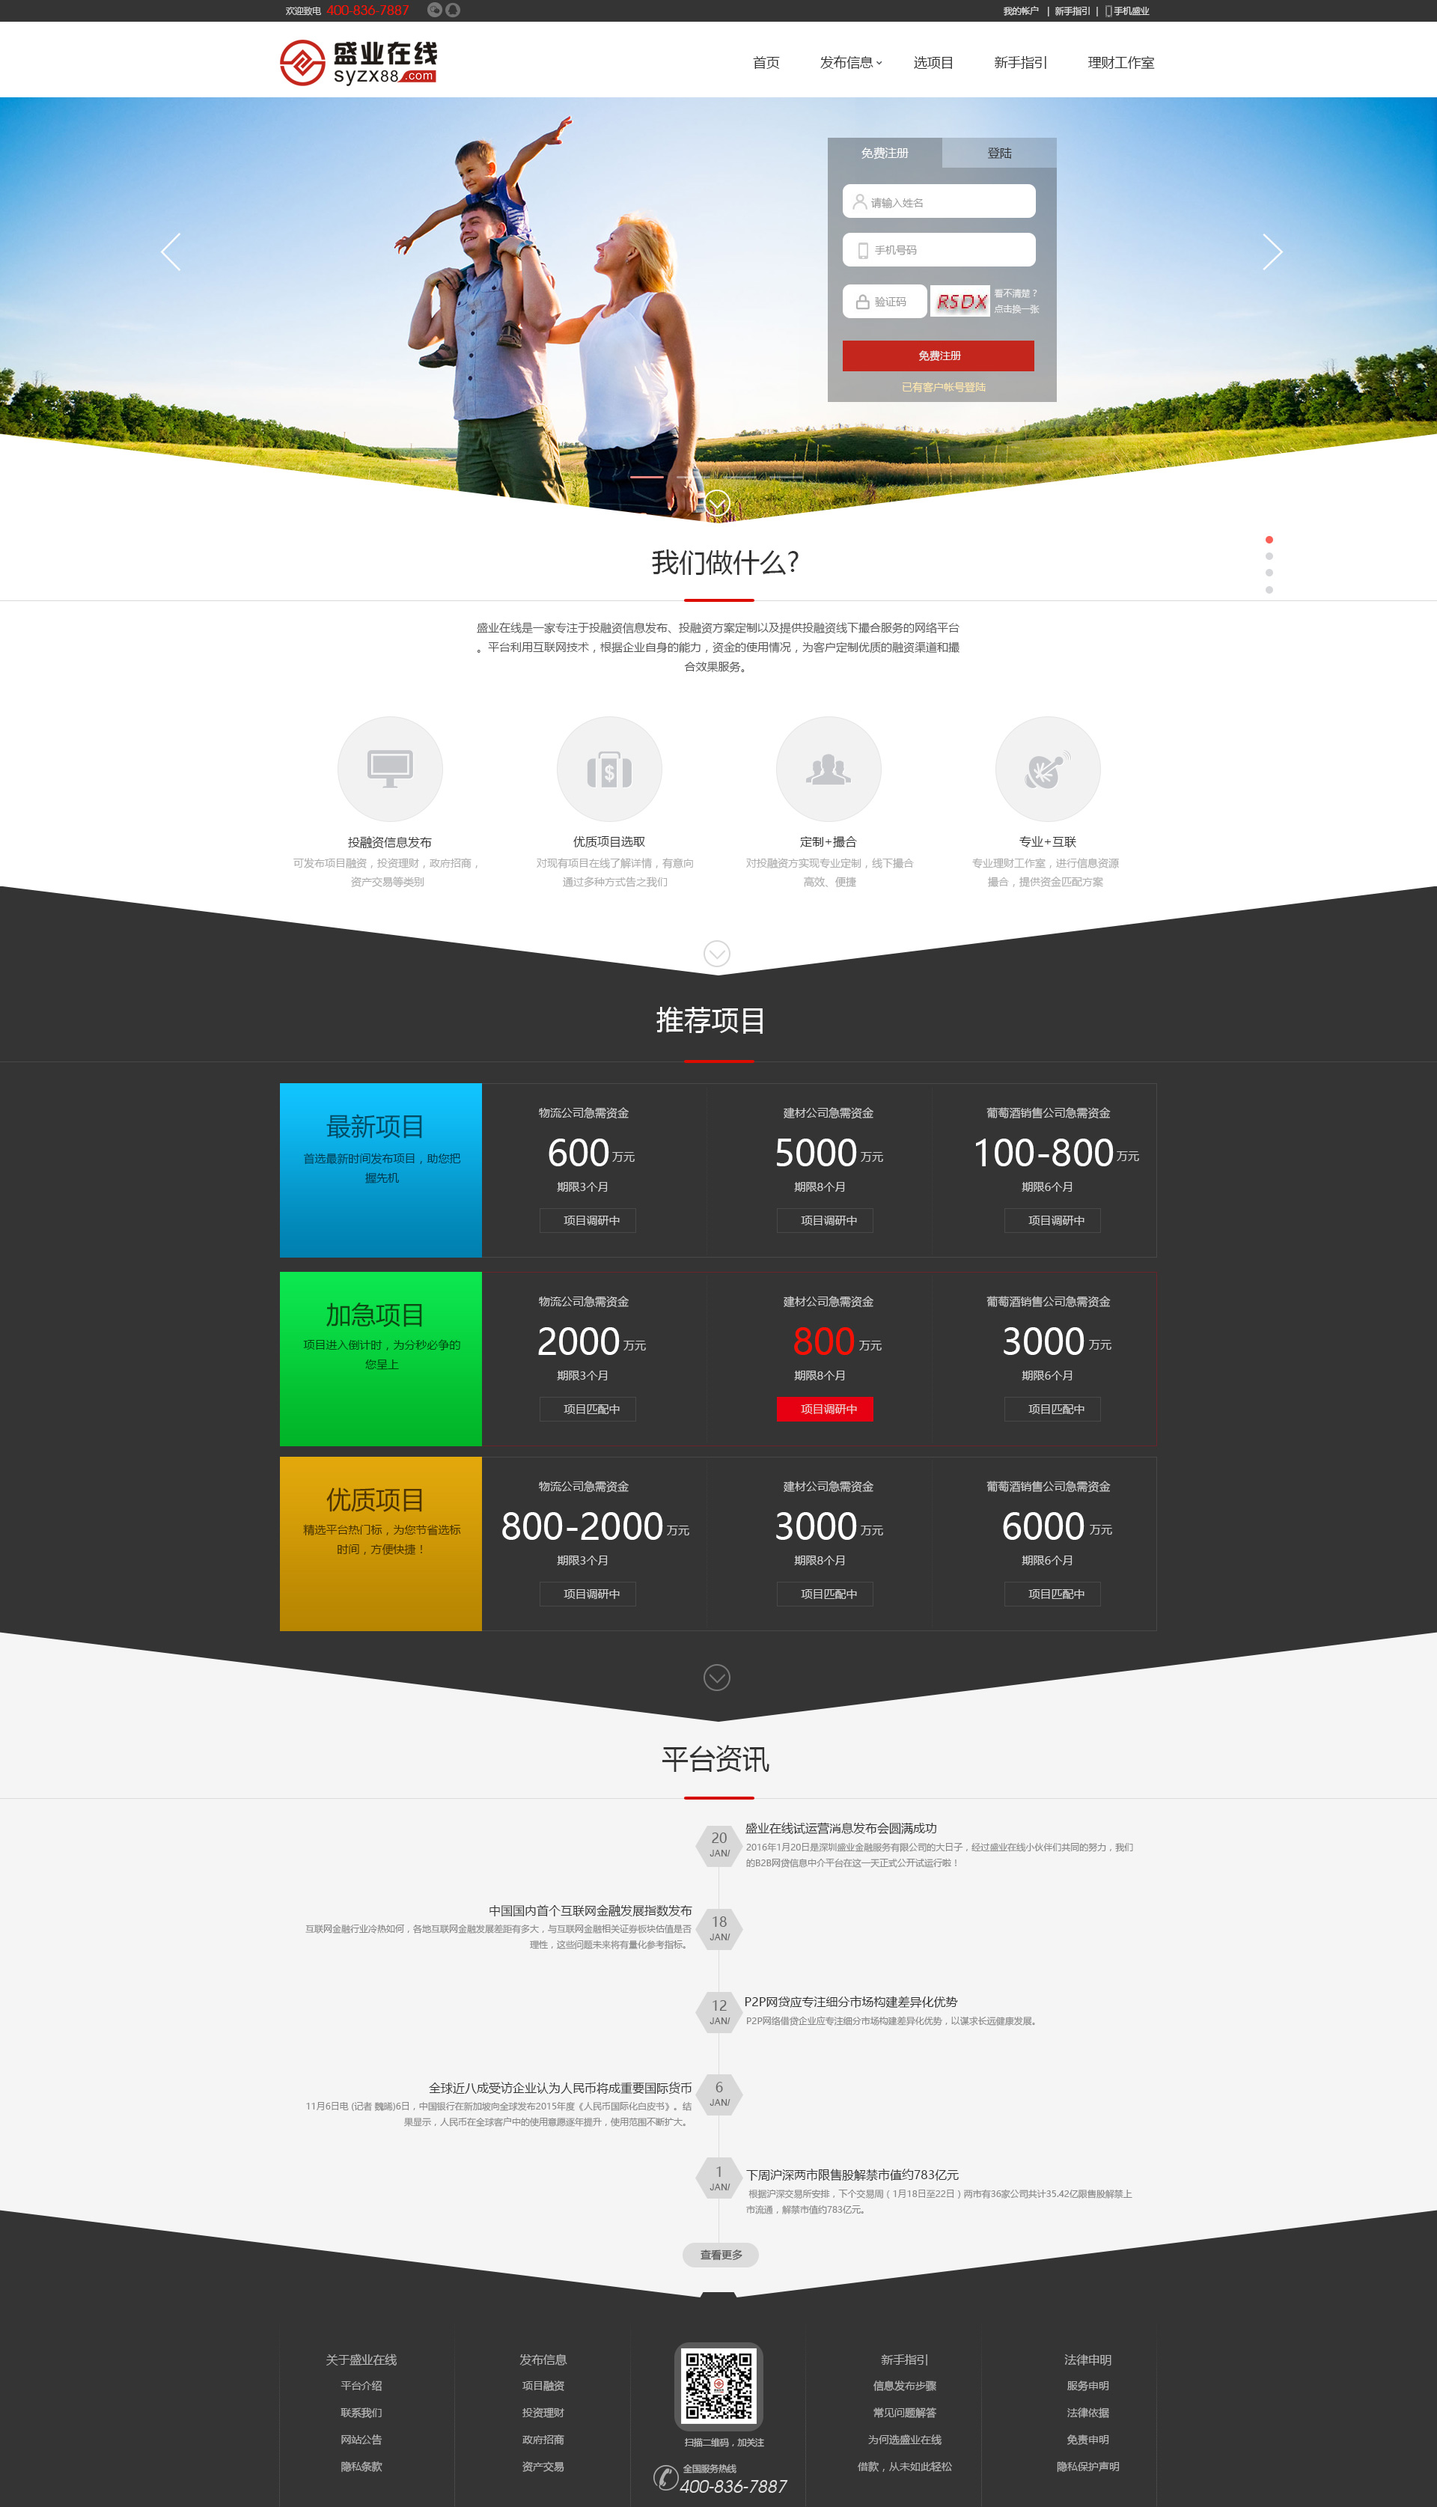
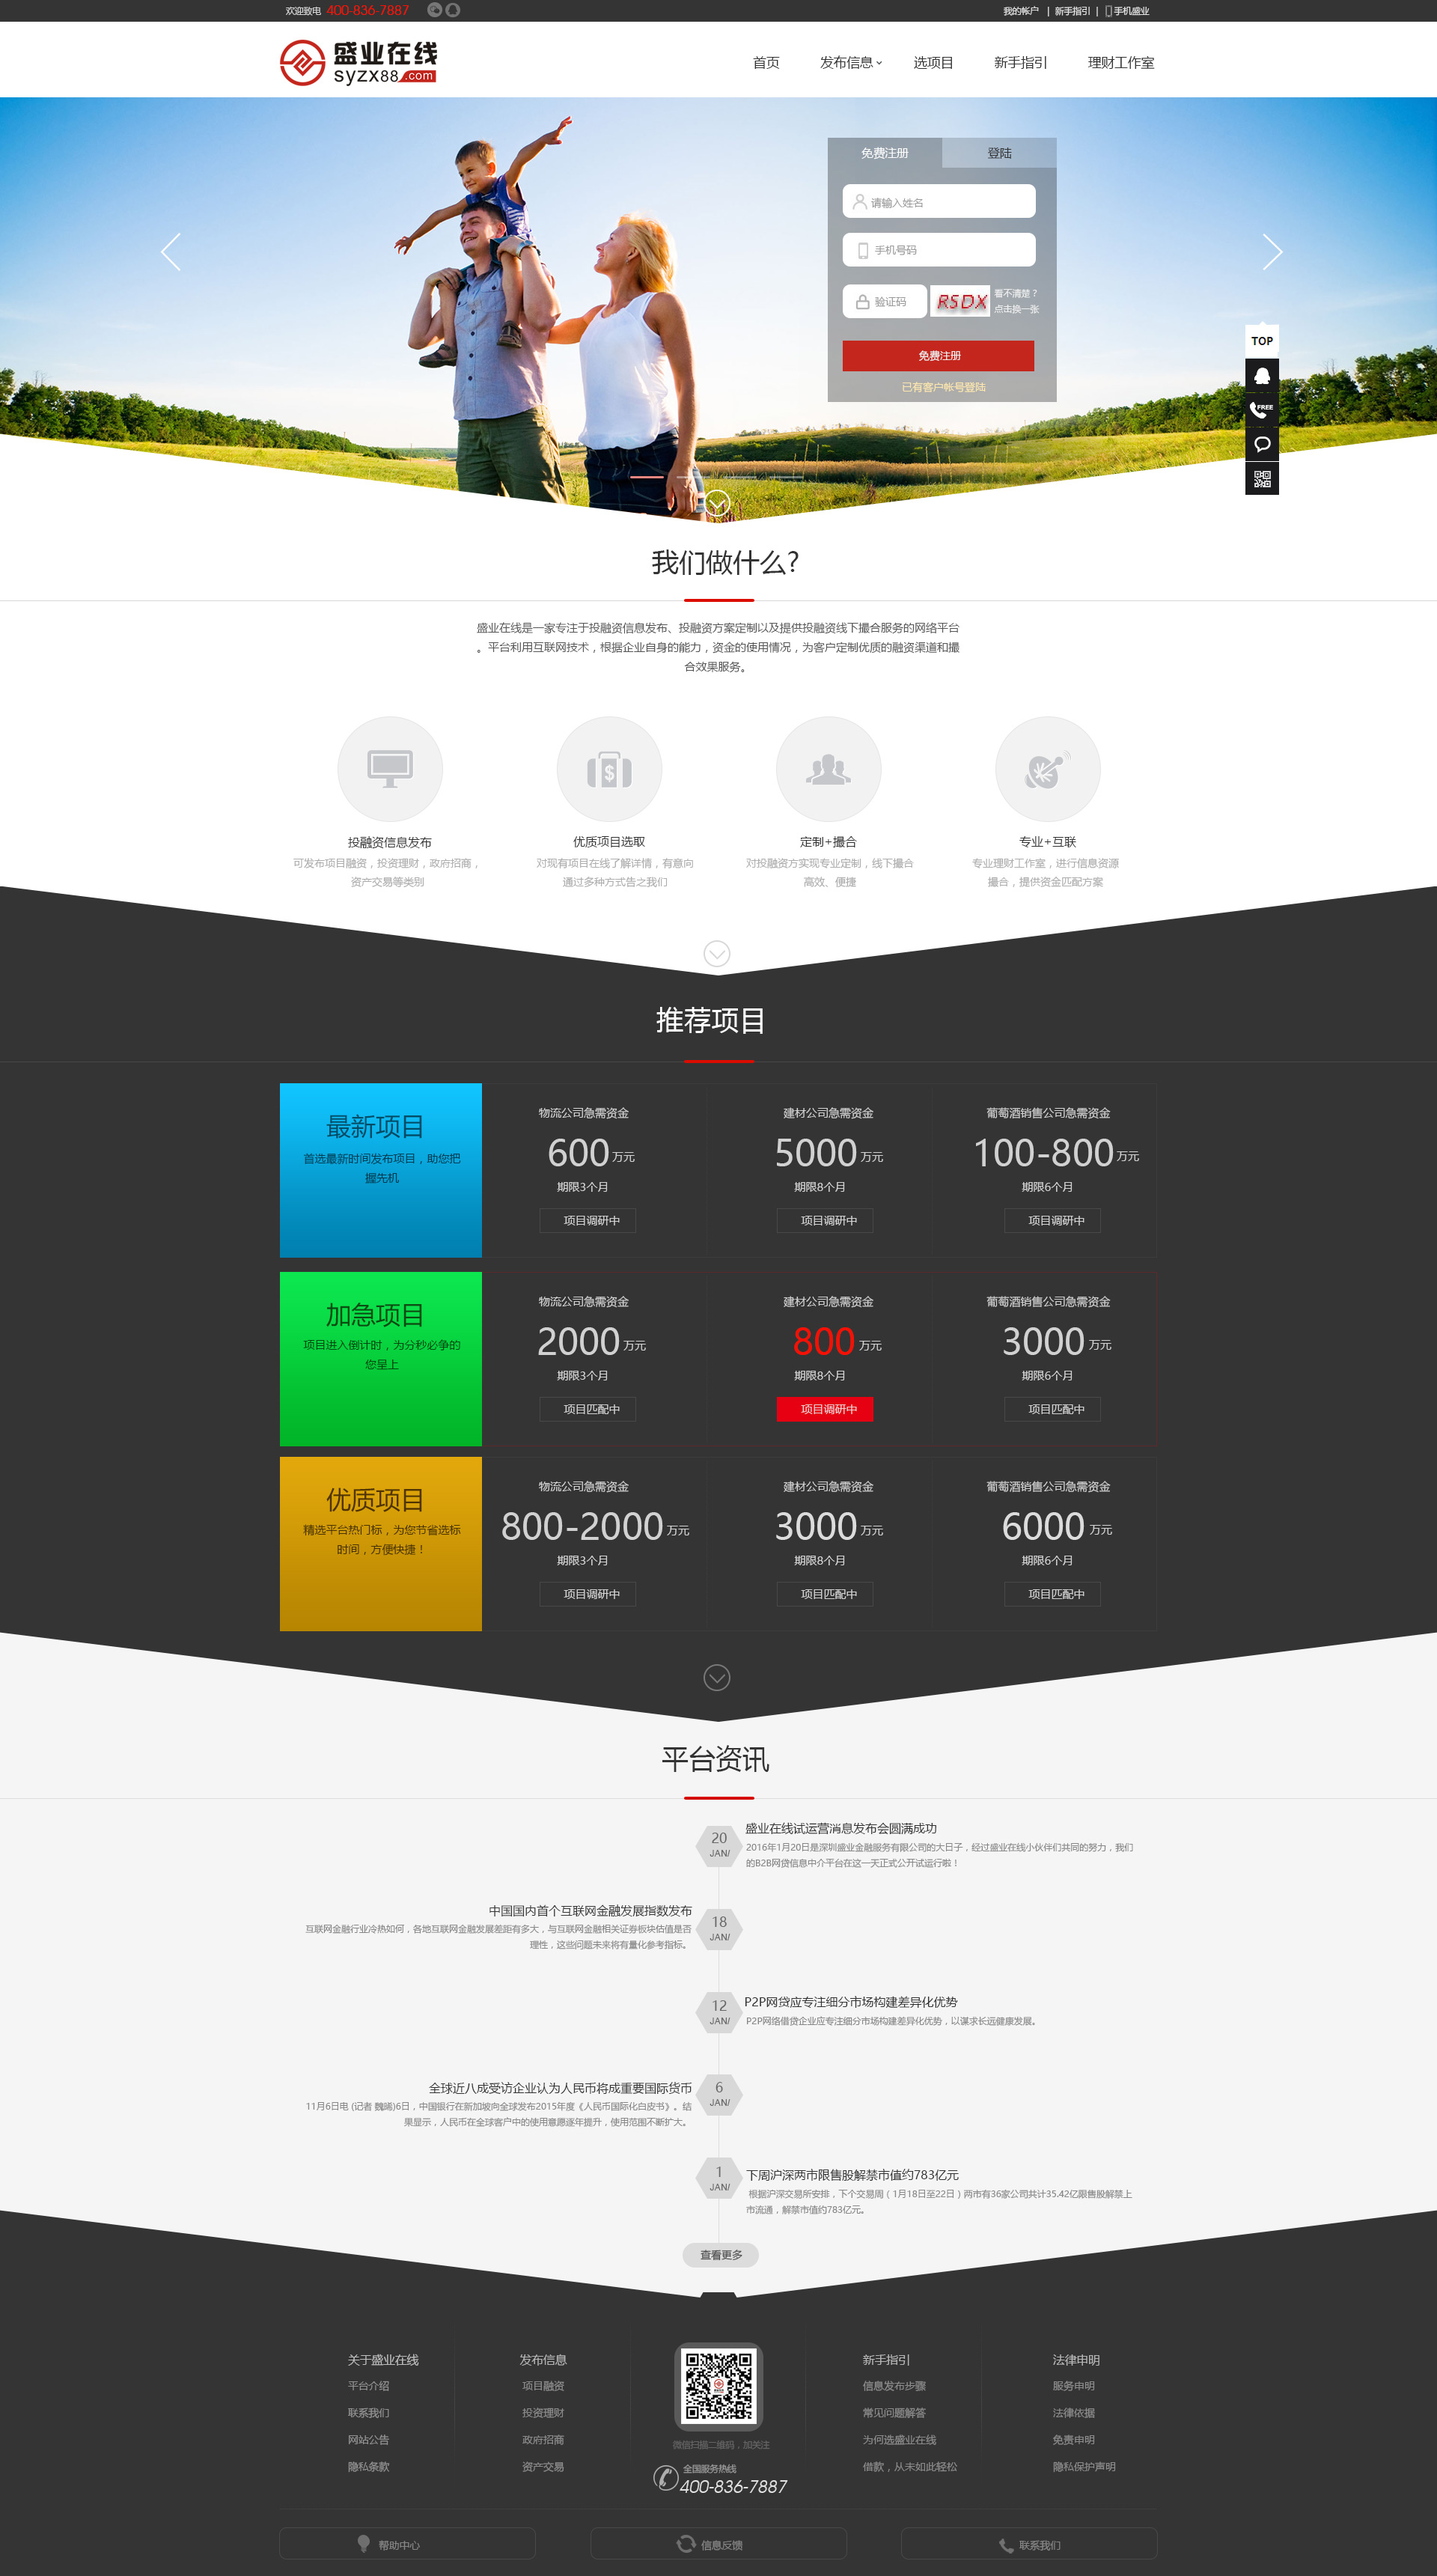
test

Changed region(s): [[0.0, 0.0, 1.0, 0.9937], [0.7188, 0.9316, 0.7812, 0.9937], [0.1875, 0.0, 0.3125, 0.0311]]

diff --git a/index6.html b/index6.html
@@ -9,7 +9,7 @@
 <body bgcolor="#E2E2E2" leftmargin="0" topmargin="0" marginwidth="0" marginheight="0">
 <table width="100%" border="0" cellspacing="0" cellpadding="0" style="background:url(images/index6.jpg) no-repeat center center;">
   <tr>
-    <td width="100%" height="3349">&nbsp;</td>
+    <td width="100%" height="3441">&nbsp;</td>
   </tr>
 </table>
 
